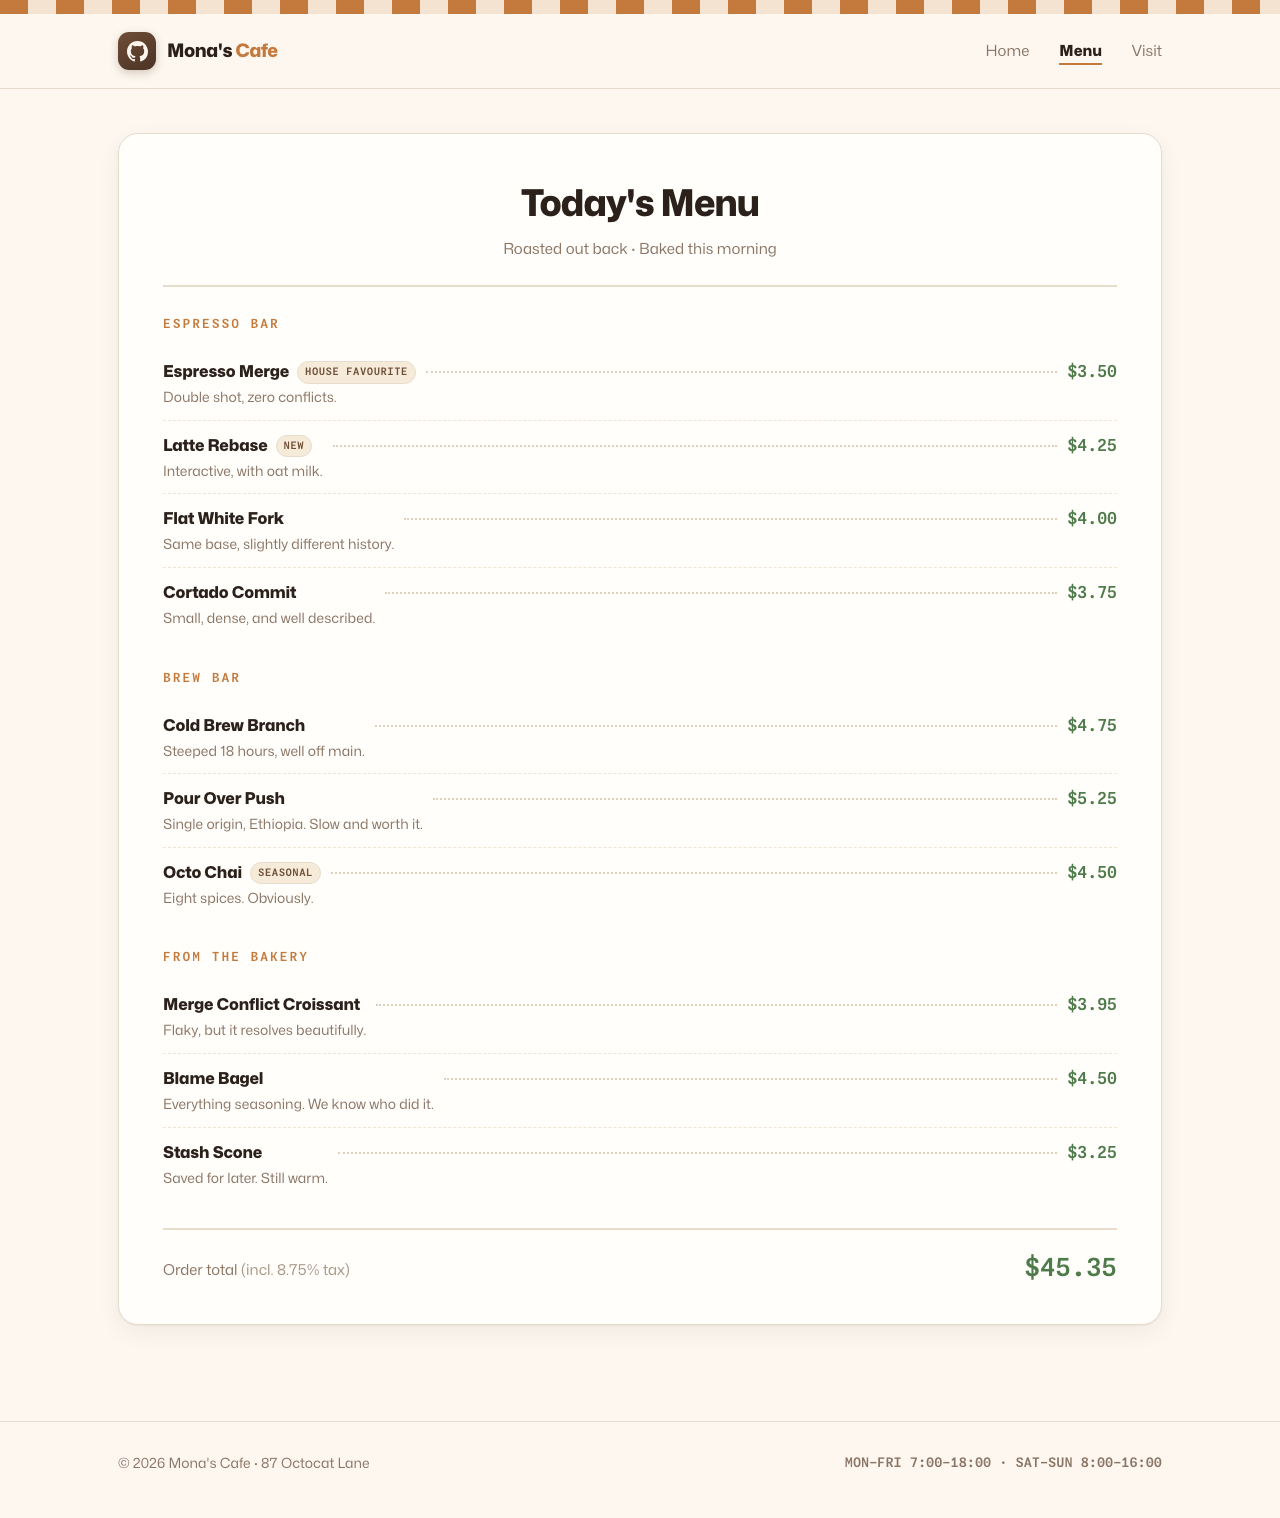
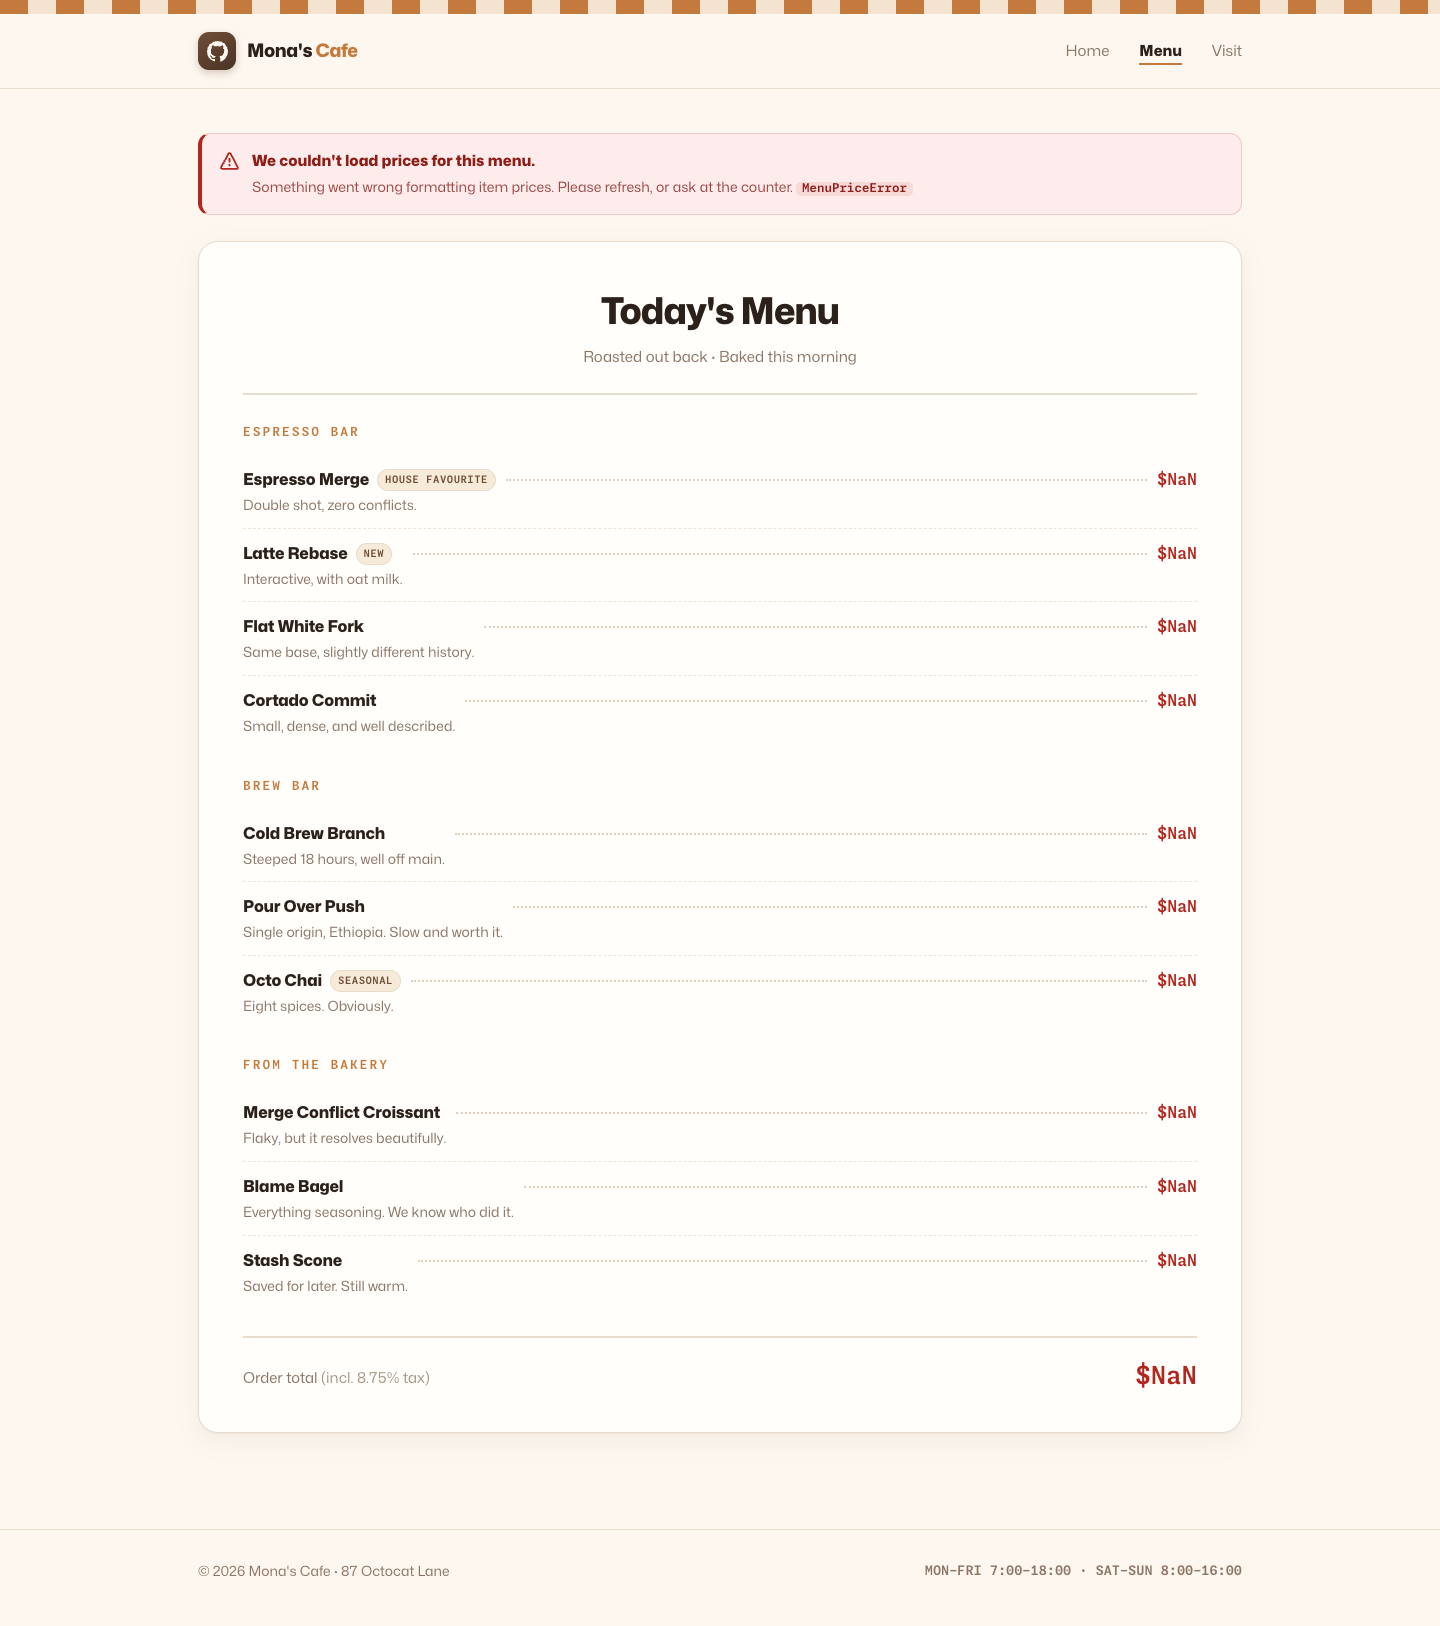
Restyle attach and stacked PR tutorials; fix $NaN image; Conversation UI screenshots
Copilot-Session: c4e5ebb8-b620-4209-99bb-c4610fa871c5

diff --git a/01-github-latest-features/create-a-stacked-pr/README.md b/01-github-latest-features/create-a-stacked-pr/README.md
@@ -1,64 +1,106 @@
-# Create a stacked PR
+<p align="center">
+  <img src="banner.svg" alt="Section 1 tutorial 2: Create a stacked PR. Small pull requests that build on each other." width="100%">
+</p>
+
+**Section 1 · Tutorial 2 · 5 min · 5 steps**
 
 Split one change into small pull requests that build on each other, so
 reviewers see one layer at a time.
 
-1. Go to this folder:
+> [!NOTE]
+> You'll build a two-layer stack for Mona's café menu: espresso first, then
+> latte on top. Each layer becomes its own pull request.
 
-   ```bash
-   cd "$(git rev-parse --show-toplevel)"
-   cd 01-github-latest-features/create-a-stacked-pr
-   ```
+## 1. Go to this folder
 
-   Set the default repository for regular `gh` commands to your fork:
+```bash
+cd "$(git rev-parse --show-toplevel)"
+cd 01-github-latest-features/create-a-stacked-pr
+```
 
-   ```bash
-   gh repo set-default "$(git remote get-url origin)"
-   gh repo set-default --view
-   ```
+Set the default repository for regular `gh` commands to your fork:
 
-   The output should name your fork, not `octodemo/virtual-universe-26`.
-   If you haven't forked yet, complete [Getting started](../README.md#getting-started)
-   first.
+```bash
+gh repo set-default "$(git remote get-url origin)"
+gh repo set-default --view
+```
 
-   `gh stack` can still prefer the `upstream` remote despite this setting.
-   Step 4 uses `GH_REPO` to explicitly target your fork for pull requests.
+The output should name your fork, not `octodemo/virtual-universe-26`.
+If you haven't forked yet, complete [Getting started](../README.md#getting-started)
+first.
 
-2. Start a stack, then commit the first change:
+`gh stack` can still prefer the `upstream` remote despite this setting.
+Step 4 uses `GH_REPO` to explicitly target your fork for pull requests.
 
-   ```bash
-   gh stack init menu/espresso
-   echo '- Espresso: $3.00' > menu.md
-   git add menu.md && git commit -m "Add espresso to the menu"
-   ```
+## 2. Start a stack, then commit the first change
 
-3. Add a second branch on top, then commit the next change:
+```bash
+gh stack init menu/espresso
+echo '- Espresso: $3.00' > menu.md
+git add menu.md && git commit -m "Add espresso to the menu"
+```
 
-   ```bash
-   gh stack add menu/latte
-   echo '- Latte: $4.50' >> menu.md
-   git commit -am "Add latte to the menu"
-   ```
+## 3. Add a second branch on top, then commit the next change
 
-4. Push both branches and open a draft pull request for each:
+```bash
+gh stack add menu/latte
+echo '- Latte: $4.50' >> menu.md
+git commit -am "Add latte to the menu"
+```
 
-   ```bash
-   GH_REPO="$(git remote get-url origin)" gh stack submit --auto --remote origin
-   ```
-
-   `GH_REPO` selects the repository for the pull requests; `--remote origin`
-   selects where the branches are pushed. Both must point to your fork.
-
-5. Open the links that `gh` prints. The latte pull request is based on the
-   espresso branch, so it only shows the latte change.
-
-If a previous submit pushed the branches but failed with "Head ref must be a
-branch" or "No commits between", retry with the explicit repository override.
-Setting `gh repo set-default` alone is not enough for affected `gh stack`
-versions. You do not need to recreate the branches or commits:
+## 4. Push both branches and open a draft pull request for each
 
 ```bash
 GH_REPO="$(git remote get-url origin)" gh stack submit --auto --remote origin
 ```
 
-[Back to Section 1](../README.md)
+`GH_REPO` selects the repository for the pull requests; `--remote origin`
+selects where the branches are pushed. Both must point to your fork.
+
+## 5. Open your pull requests
+
+Open the links that `gh` prints. The latte pull request is based on the
+espresso branch, so it only shows the latte change.
+
+<p align="center">
+  <img src="stack-conversation.png" alt="Pull request 'Add latte to the menu #5' on the Conversation tab, with a 2/2 stack button and menu/latte merging into menu/espresso" width="90%">
+</p>
+
+Select the **2/2** stack button next to **Open** to see the whole stack and
+jump between its pull requests.
+
+<p align="center">
+  <img src="stack-navigator.png" alt="Stack #6 menu listing Add latte to the menu #5, Add espresso to the menu #4, and main, opened from the 2/2 button on the Conversation tab" width="90%">
+</p>
+
+> [!TIP]
+> Review stacks from the **Conversation** tab. The stack menu and the merge box
+> both live there.
+
+> [!WARNING]
+> If a previous submit pushed the branches but failed with "Head ref must be a
+> branch" or "No commits between", retry with the explicit repository override.
+> Setting `gh repo set-default` alone is not enough for affected `gh stack`
+> versions. You do not need to recreate the branches or commits:
+>
+> ```bash
+> GH_REPO="$(git remote get-url origin)" gh stack submit --auto --remote origin
+> ```
+
+## What you'll get
+
+Scroll to the bottom of the **Conversation** tab on the top pull request. The
+merge box lists every layer in the stack and merges them together.
+
+<p align="center">
+  <img src="stack-merge-box.png" alt="Merge box on the Conversation tab: Able to merge as a stack, Stack #6 with Add latte to the menu #5 and Add espresso to the menu #4 both Ready, and a Merge stack 2 button" width="60%">
+</p>
+
+<p align="center"><b>Stack #6</b> · latte on top of espresso on top of <code>main</code>, merged in one click</p>
+
+---
+
+<p align="center">
+  <a href="../attach-images-to-an-issue/README.md">← Attach images to an issue</a> ·
+  <b><a href="../README.md">Back to Section 1</a></b>
+</p>

diff --git a/01-github-latest-features/attach-images-to-an-issue/README.md b/01-github-latest-features/attach-images-to-an-issue/README.md
@@ -1,25 +1,51 @@
-# Attach images to an issue
+<p align="center">
+  <img src="banner.svg" alt="Section 1 tutorial 1: Attach images to an issue. Screenshots, straight from the terminal." width="100%">
+</p>
+
+**Section 1 · Tutorial 1 · 5 min · 3 steps**
 
 Use `--attach` to add a screenshot to an issue, straight from the terminal.
 
-1. Go to this folder:
+> [!NOTE]
+> Mona's café menu has a bug: Playwright caught every price showing `$NaN`.
+> You'll file it with the screenshot attached, without leaving the terminal.
 
-   ```bash
-   cd "$(git rev-parse --show-toplevel)"
-   cd 01-github-latest-features/attach-images-to-an-issue
-   ```
+## 1. Go to this folder
 
-2. Create an issue with the screenshot. The text after `#` is the image's alt text.
+```bash
+cd "$(git rev-parse --show-toplevel)"
+cd 01-github-latest-features/attach-images-to-an-issue
+```
 
-   ```bash
-   gh issue create \
-     --title "Menu prices show \$NaN" \
-     --body "Playwright caught this:" \
-     --attach 'menu-prices.png#Menu board showing $NaN'
-   ```
+## 2. Create an issue with the screenshot
 
-3. Open the link that `gh` prints. The screenshot is in the issue.
+The text after `#` is the image's alt text.
 
-`--attach` also works with `gh issue comment` and `gh pr create`.
+```bash
+gh issue create \
+  --title "Menu prices show \$NaN" \
+  --body "Playwright caught this:" \
+  --attach 'menu-prices.png#Menu board showing $NaN'
+```
 
-**Next:** [Start the stacked PR tutorial](../create-a-stacked-pr/README.md).
+## 3. Open your issue
+
+Open the link that `gh` prints. The screenshot is in the issue.
+
+> [!TIP]
+> `--attach` also works with `gh issue comment` and `gh pr create`.
+
+## What you'll attach
+
+<p align="center">
+  <img src="menu-prices.png" alt="Mona's café menu with a 'We couldn't load prices for this menu' error and every price showing $NaN" width="60%">
+</p>
+
+<p align="center"><b>menu-prices.png</b> · every price on the menu shows <code>$NaN</code></p>
+
+---
+
+<p align="center">
+  <a href="../README.md">← Back to Section 1</a> ·
+  <b><a href="../create-a-stacked-pr/README.md">Next: Create a stacked PR →</a></b>
+</p>
